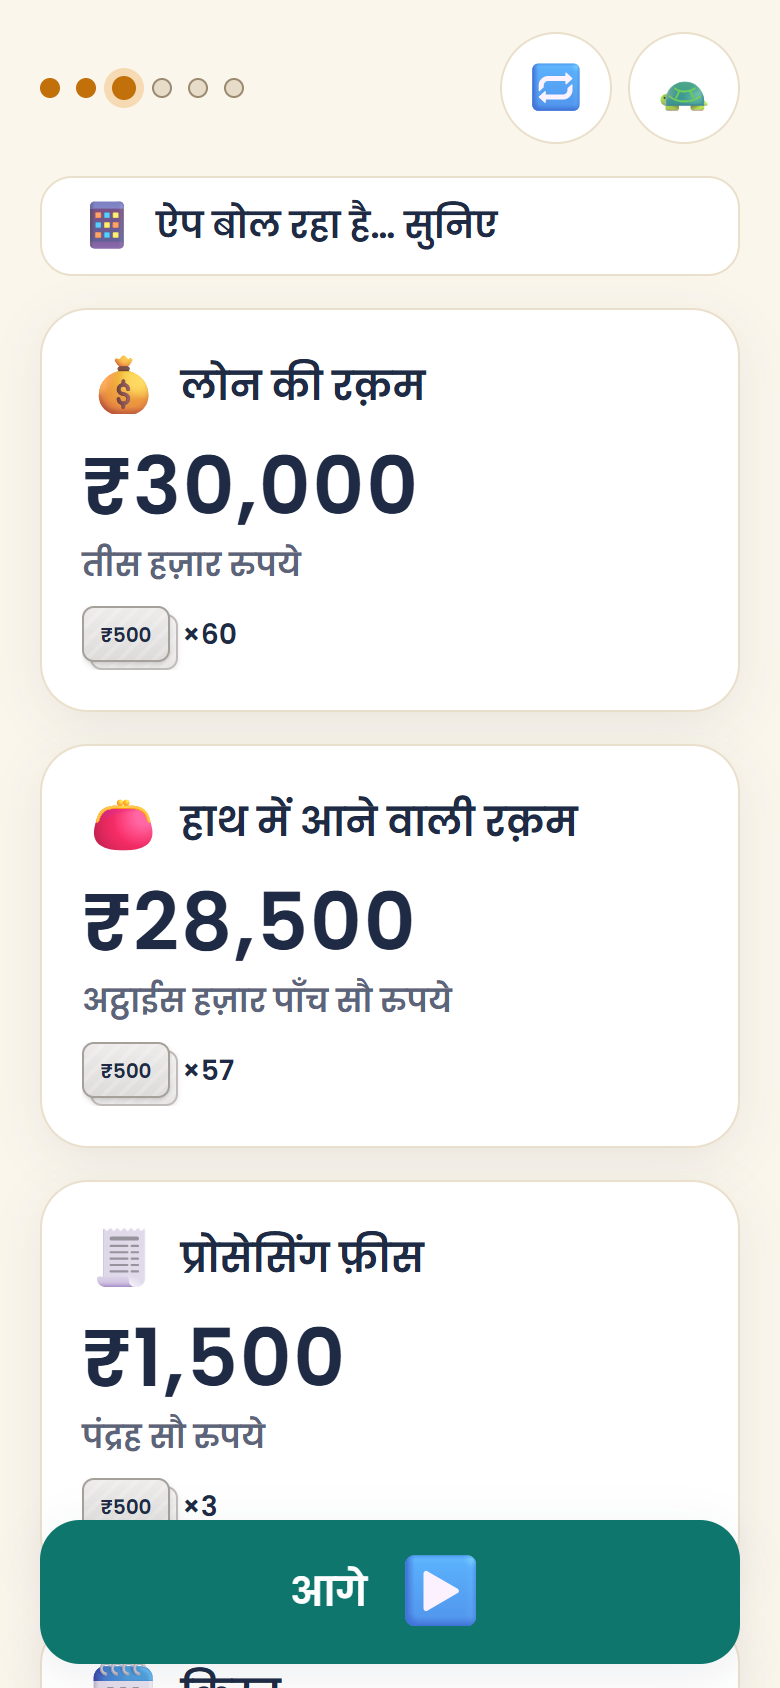
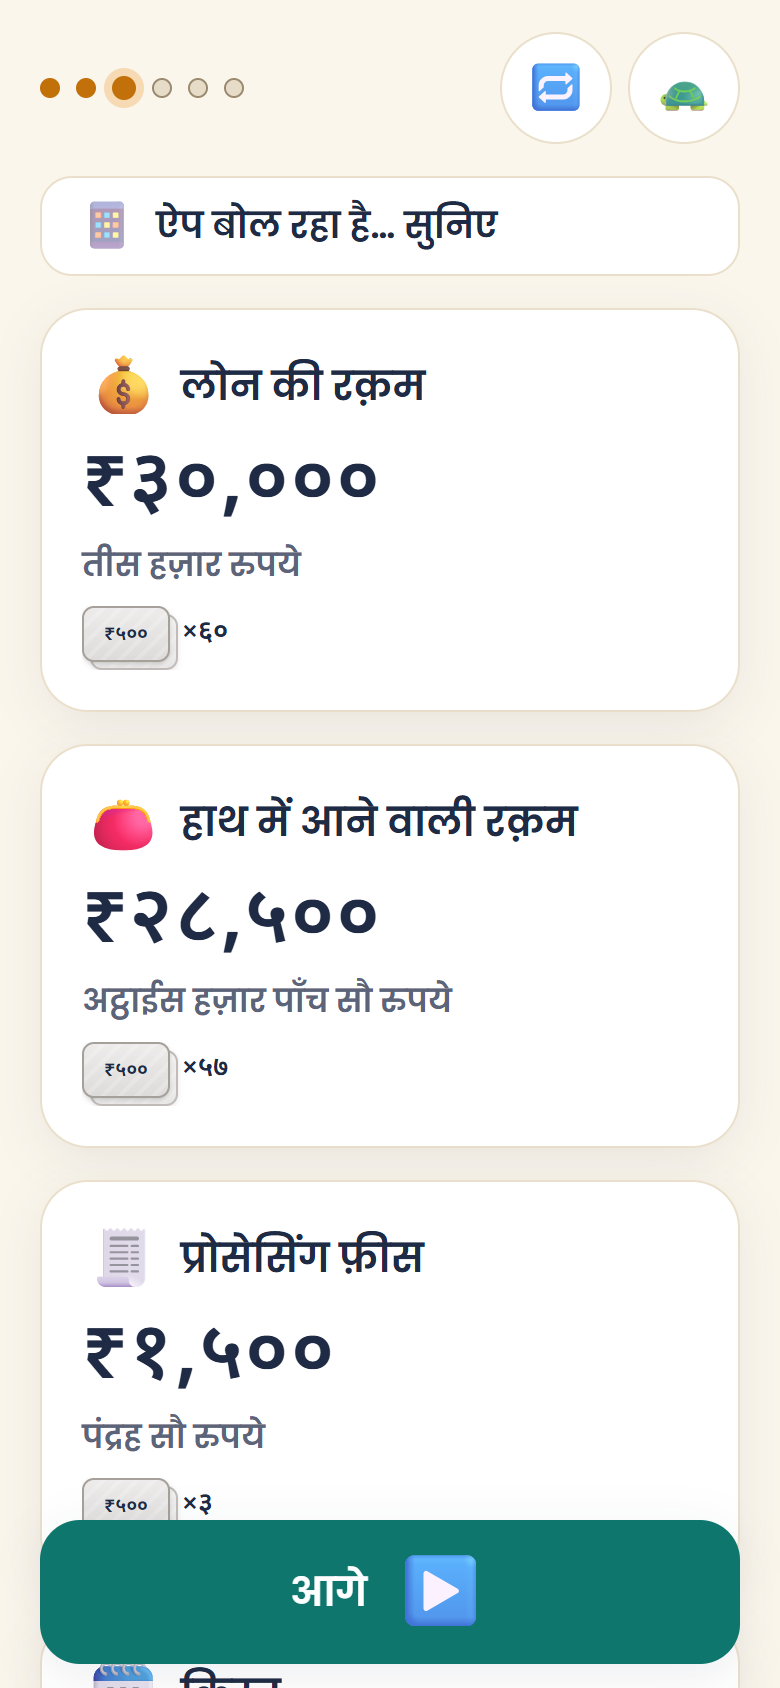
README: screenshots with Hindi digits

diff --git a/README.md b/README.md
@@ -61,8 +61,8 @@ Real screens from the app on a phone-sized screen.
 <p>
   <img src="docs/screens/01-welcome.png" alt="Welcome: the Arth logo, the language picker with Beta tags, two voices and the Start button" width="190" />
   <img src="docs/screens/02-who.png" alt="Who is here: only me, or me plus the agent" width="190" />
-  <img src="docs/screens/03-explain.png" alt="The sample paper explained as cards: loan amount, money in hand and processing fee, each with digits, words and ₹500 notes" width="190" />
-  <img src="docs/screens/04-teachback.png" alt="Teach-back: the borrower is asked how much the instalment is and how often, with point-by-point progress and a microphone button" width="190" />
+  <img src="docs/screens/03-explain.png" alt="The sample paper explained as cards: loan amount ₹३०,०००, money in hand ₹२८,५०० and processing fee ₹१,५००, each in Hindi digits and words with ₹500 notes" width="190" />
+  <img src="docs/screens/04-teachback.png" alt="Teach-back: the borrower is asked what happens if an instalment is missed, with point-by-point progress, the try counter and a microphone button" width="190" />
 </p>
 
 ## How it works
